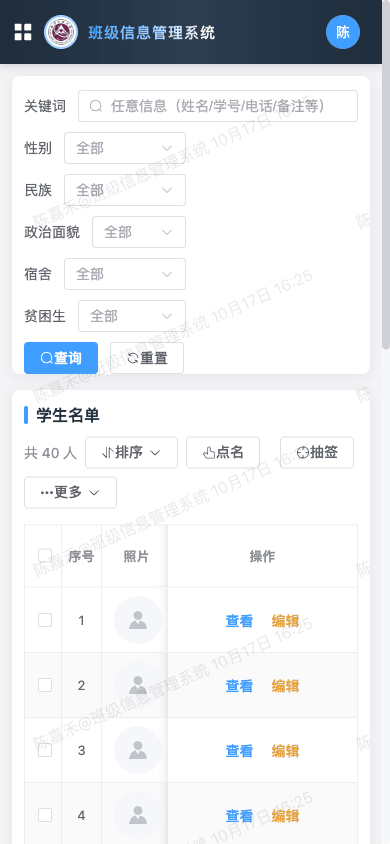
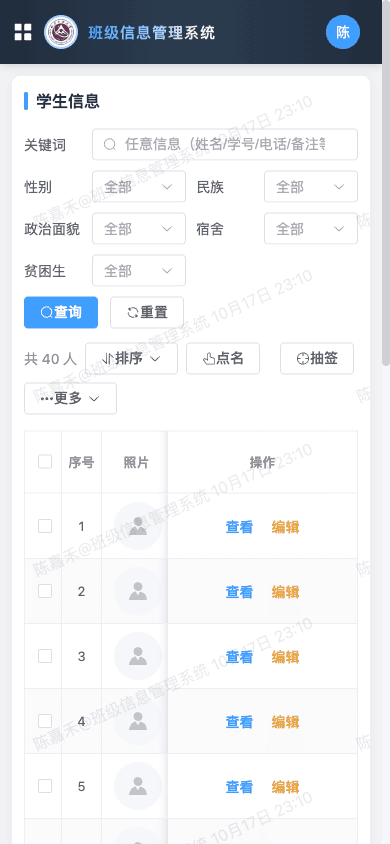
chore：版本号升到 1.16.1，文档配图换成当前界面
- app_version 升到 1.16.1，接口文档按新版本重新生成（241 个接口）
- docs/images 下 29 张配图按当前代码重拍：列表搜索、日程表头点击、
  手机端紧凑排版，以及头像优先显示等 1.16 的变化
- 配图沿用旧的量化口径压缩，体积与原来相当

diff --git a/backend/app/config.py b/backend/app/config.py
@@ -16,7 +16,7 @@ class Settings(BaseSettings):
     # 应用信息
     app_name: str = "班级信息管理系统"
     # 版本号。页面上的「关于班级 → 系统版本」、/api/health、接口文档都取这一份
-    app_version: str = "1.16.0"
+    app_version: str = "1.16.1"
     # 站点名称。和前端 window.__SITE__.name 是同**一个**环境变量 SITE_NAME，
     # 后端只在 RSS 频道名里用它（「通知公告 - 统26-1班信息管理系统」），
     # 目的就是让阅读器里显示的源名和网页标题对得上。
